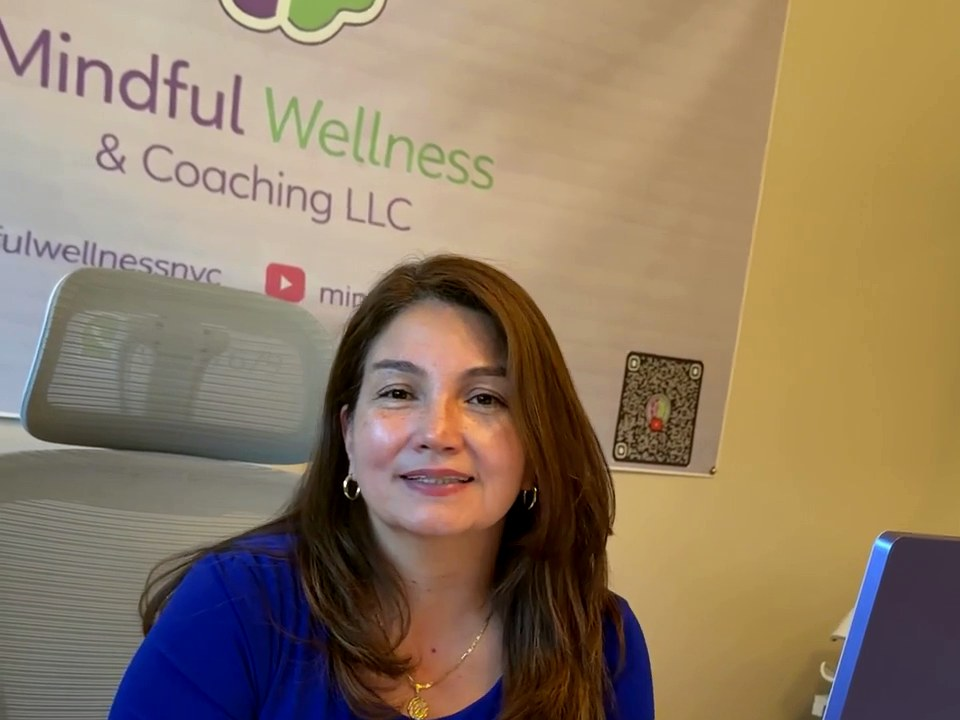
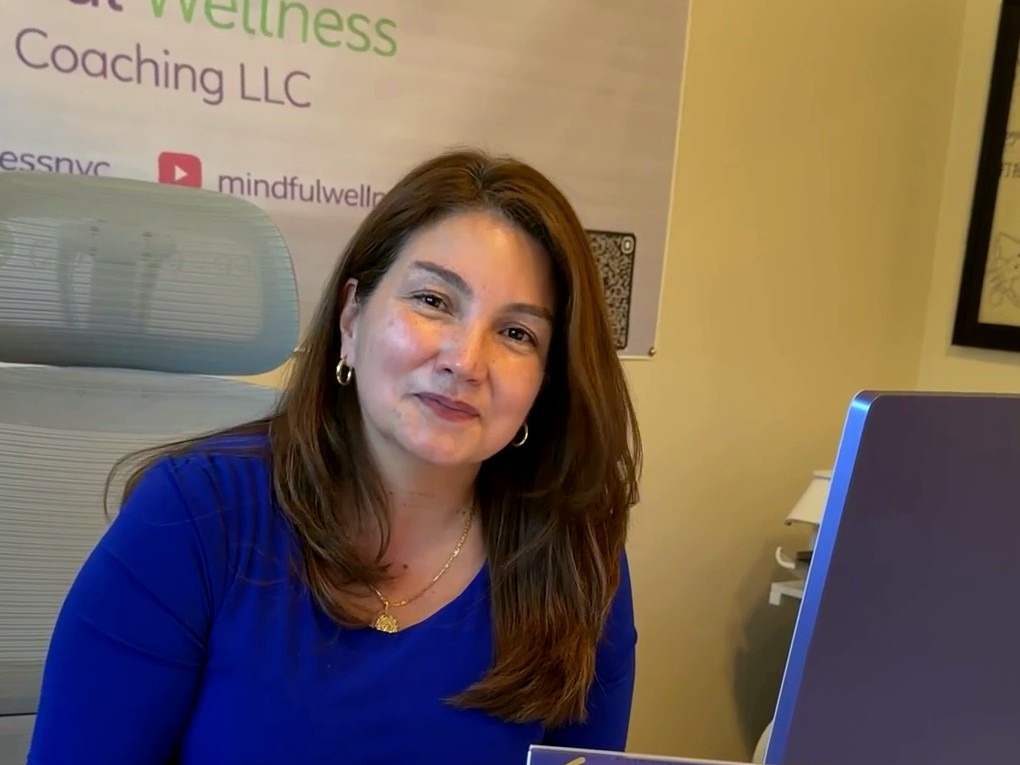
Coaching card: use Moni's chosen photo
Claude-Session: https://claude.ai/code/session_01Cgv7VACzjbbE3Hbukr5a7m

diff --git a/index.html b/index.html
@@ -1444,7 +1444,7 @@ footer a:hover{color:var(--gold2)}
     <div class="cm-serv">
       <p class="eyebrow rv"><span class="es">Servicios</span><span class="en">Services</span></p>
       <h2 class="rv"><span class="es">Cómo puedo acompañarte</span><span class="en">How I can support you</span></h2>
-      <div class="cm-cards"><a class="cm-card rv" href="#soluciones" style="--d:0.0s"><span class="cm-ci" style="background-image:url(img/monica-charla.jpg);background-position:center 8%"></span><span class="cm-cb"><b><span class="es">Capacitación empresarial</span><span class="en">Corporate training</span></b><span><span class="es">Ayudo a equipos a fortalecer su comunicación, bienestar y habilidades mediante experiencias de aprendizaje participativas.</span><span class="en">I help teams strengthen their communication, well-being and skills through participatory learning experiences.</span></span><em><span class="es">Explora la capacitación empresarial</span><span class="en">Explore corporate training</span> →</em></span></a><a class="cm-card rv" href="#individual" style="--d:0.08s"><span class="cm-ci" style="background-image:url(img/monica-coaching-video.jpg);background-position:center 40%"></span><span class="cm-cb"><b><span class="es">Coaching individual</span><span class="en">Individual coaching</span></b><span><span class="es">Te acompaño a reconocer tus fortalezas y avanzar hacia cambios que tengan sentido para ti.</span><span class="en">I help you recognize your strengths and move toward changes that make sense for you.</span></span><em><span class="es">Conoce el coaching individual</span><span class="en">Discover individual coaching</span> →</em></span></a><a class="cm-card rv" href="#finanzas" style="--d:0.16s"><span class="cm-ci" style="background-image:url(img/taller-finanzas.jpg);background-position:center 0%"></span><span class="cm-cb"><b><span class="es">Educación financiera</span><span class="en">Financial education</span></b><span><span class="es">Conecto metas, emociones y hábitos para facilitar decisiones más conscientes sobre el dinero.</span><span class="en">I connect goals, emotions and habits to support more mindful decisions about money.</span></span><em><span class="es">Explora educación financiera</span><span class="en">Explore financial education</span> →</em></span></a><a class="cm-card rv" href="#empleo" style="--d:0.24s"><span class="cm-ci" style="background-image:url(img/reconocimiento.jpg);background-position:center 30%"></span><span class="cm-cb"><b><span class="es">Desarrollo profesional y preparación laboral</span><span class="en">Professional development &amp; job readiness</span></b><span><span class="es">Comparto herramientas para reconocer tus habilidades, comunicar tu experiencia y prepararte para nuevas oportunidades.</span><span class="en">I share tools to recognize your skills, communicate your experience and prepare for new opportunities.</span></span><em><span class="es">Prepárate para tu próximo paso</span><span class="en">Get ready for your next step</span> →</em></span></a><a class="cm-card rv" href="#comunidades" style="--d:0.32s"><span class="cm-ci" style="background-image:url(img/lanzamiento-cajita.jpg)"></span><span class="cm-cb"><b><span class="es">Comunidad</span><span class="en">Community</span></b><span><span class="es">Creo espacios para aprender, acompañarnos y contribuir a causas que nos unen.</span><span class="en">I create spaces to learn, support one another and contribute to causes that bring us together.</span></span><em><span class="es">Conoce nuestra comunidad</span><span class="en">Meet our community</span> →</em></span></a></div>
+      <div class="cm-cards"><a class="cm-card rv" href="#soluciones" style="--d:0.0s"><span class="cm-ci" style="background-image:url(img/monica-charla.jpg);background-position:center 8%"></span><span class="cm-cb"><b><span class="es">Capacitación empresarial</span><span class="en">Corporate training</span></b><span><span class="es">Ayudo a equipos a fortalecer su comunicación, bienestar y habilidades mediante experiencias de aprendizaje participativas.</span><span class="en">I help teams strengthen their communication, well-being and skills through participatory learning experiences.</span></span><em><span class="es">Explora la capacitación empresarial</span><span class="en">Explore corporate training</span> →</em></span></a><a class="cm-card rv" href="#individual" style="--d:0.08s"><span class="cm-ci" style="background-image:url(img/monica-coaching-video.jpg?v=2);background-position:center 30%"></span><span class="cm-cb"><b><span class="es">Coaching individual</span><span class="en">Individual coaching</span></b><span><span class="es">Te acompaño a reconocer tus fortalezas y avanzar hacia cambios que tengan sentido para ti.</span><span class="en">I help you recognize your strengths and move toward changes that make sense for you.</span></span><em><span class="es">Conoce el coaching individual</span><span class="en">Discover individual coaching</span> →</em></span></a><a class="cm-card rv" href="#finanzas" style="--d:0.16s"><span class="cm-ci" style="background-image:url(img/taller-finanzas.jpg);background-position:center 0%"></span><span class="cm-cb"><b><span class="es">Educación financiera</span><span class="en">Financial education</span></b><span><span class="es">Conecto metas, emociones y hábitos para facilitar decisiones más conscientes sobre el dinero.</span><span class="en">I connect goals, emotions and habits to support more mindful decisions about money.</span></span><em><span class="es">Explora educación financiera</span><span class="en">Explore financial education</span> →</em></span></a><a class="cm-card rv" href="#empleo" style="--d:0.24s"><span class="cm-ci" style="background-image:url(img/reconocimiento.jpg);background-position:center 30%"></span><span class="cm-cb"><b><span class="es">Desarrollo profesional y preparación laboral</span><span class="en">Professional development &amp; job readiness</span></b><span><span class="es">Comparto herramientas para reconocer tus habilidades, comunicar tu experiencia y prepararte para nuevas oportunidades.</span><span class="en">I share tools to recognize your skills, communicate your experience and prepare for new opportunities.</span></span><em><span class="es">Prepárate para tu próximo paso</span><span class="en">Get ready for your next step</span> →</em></span></a><a class="cm-card rv" href="#comunidades" style="--d:0.32s"><span class="cm-ci" style="background-image:url(img/lanzamiento-cajita.jpg)"></span><span class="cm-cb"><b><span class="es">Comunidad</span><span class="en">Community</span></b><span><span class="es">Creo espacios para aprender, acompañarnos y contribuir a causas que nos unen.</span><span class="en">I create spaces to learn, support one another and contribute to causes that bring us together.</span></span><em><span class="es">Conoce nuestra comunidad</span><span class="en">Meet our community</span> →</em></span></a></div>
       <p class="cm-more rv"><span class="es">También te puede interesar:</span><span class="en">You may also like:</span> <a href="#recursos"><span class="es">Mira y aprende</span><span class="en">Watch and learn</span></a> · <a href="#preguntas"><span class="es">Preguntas</span><span class="en">Questions</span></a></p>
     </div>
     <div class="cm-close rv">
